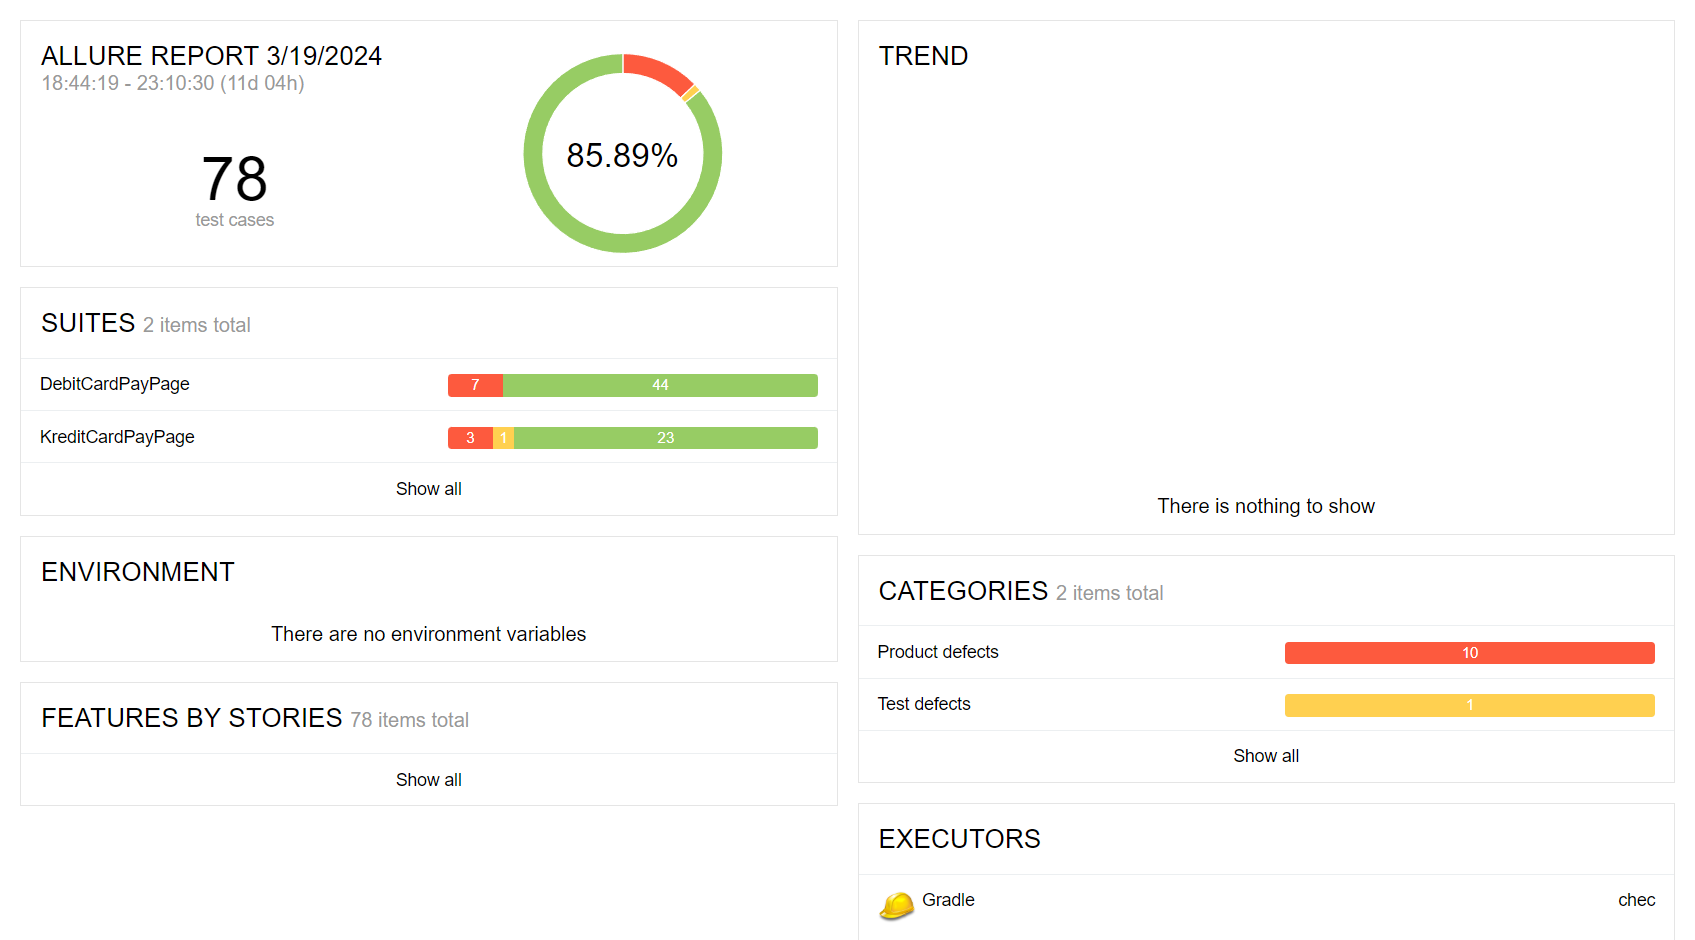
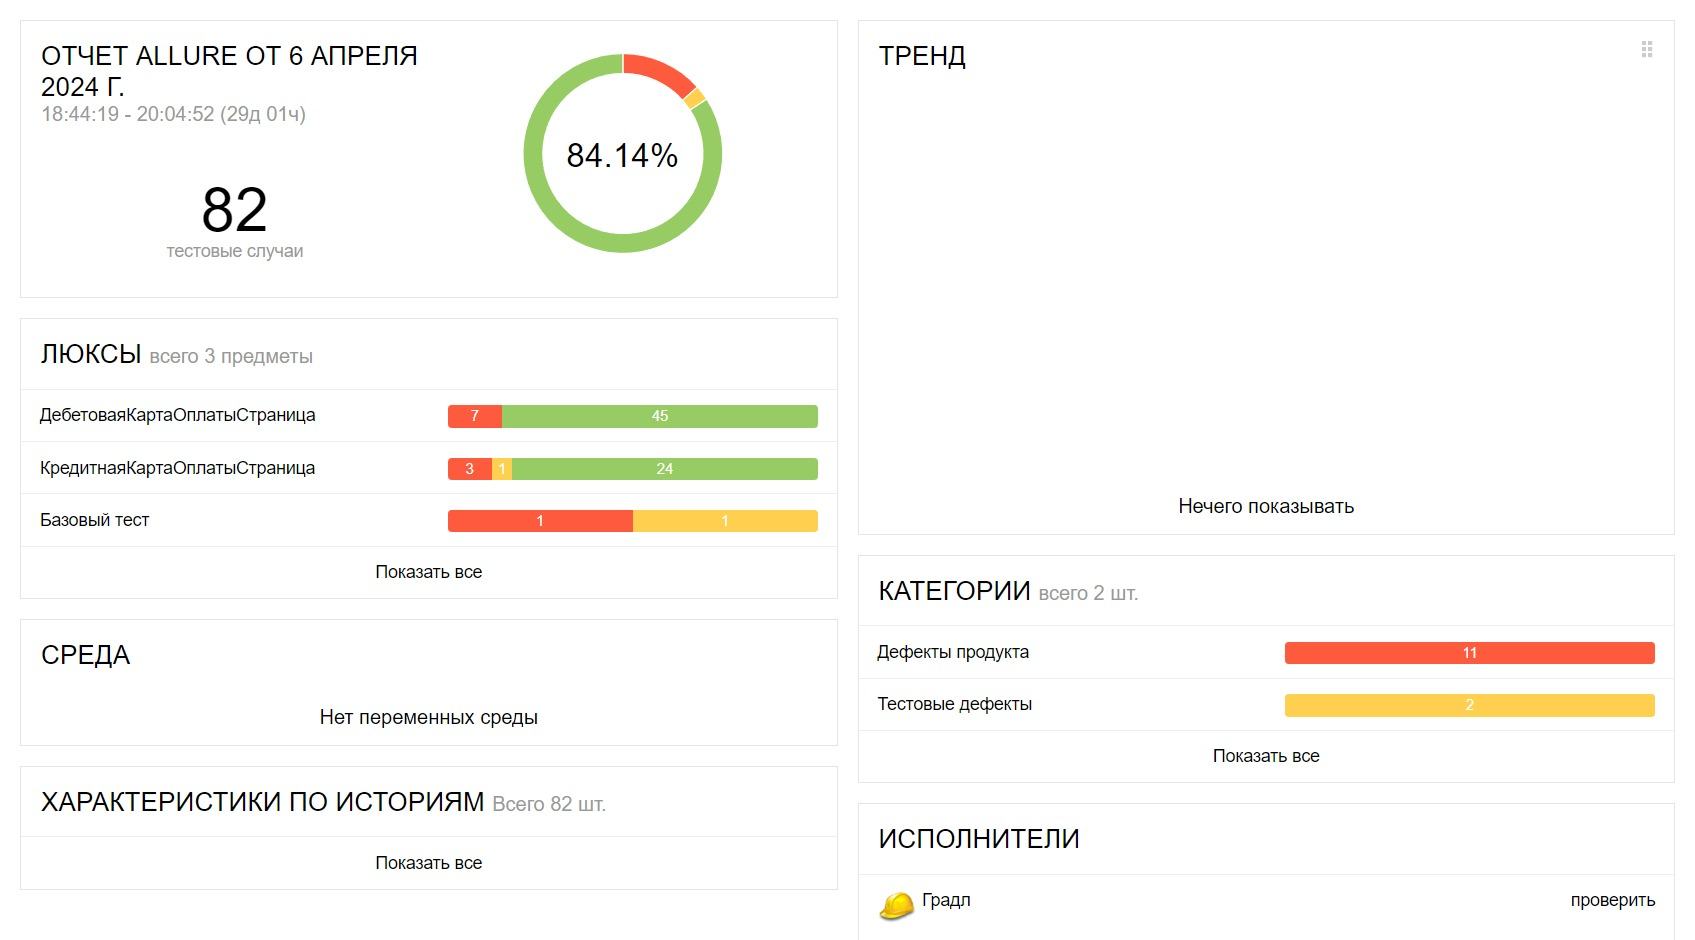
new bags

diff --git a/src/test/java/KreditCardPayPage.java b/src/test/java/KreditCardPayPage.java
@@ -1,7 +1,6 @@
 import com.codeborne.selenide.Condition;
 import com.codeborne.selenide.logevents.SelenideLogger;
 import io.qameta.allure.selenide.AllureSelenide;
-
 import org.junit.jupiter.api.AfterAll;
 import org.junit.jupiter.api.BeforeAll;
 import org.junit.jupiter.api.BeforeEach;
@@ -15,6 +14,7 @@ import static com.codeborne.selenide.Selenide.open;
 public class KreditCardPayPage {
     DataHelper.SelectInfo selInfo = DataHelper.getSelectInfo();
     DataHelper.PayInfo info = DataHelper.getPayInfo();
+
     @BeforeAll
     static void setUpAllure() {
         SelenideLogger.addListener("allure", new AllureSelenide());
@@ -101,6 +101,19 @@ public class KreditCardPayPage {
         $("#root > div > div.notification.notification_visible.notification_status_error.notification_has-closer.notification_stick-to_right.notification_theme_alfa-on-white > div.notification__content")
                 .shouldBe(Condition.visible, Duration.ofSeconds(100))
                 .shouldHave(Condition.exactText("Ошибка! Банк отказал в проведении операции."));
+    }
+
+    @Test
+    void wrongCardKreditBuyTest2() {
+        $(selInfo.getCard()).sendKeys("1111 1111 1111 1111");
+        $(selInfo.getMonth()).sendKeys(info.getMonth());
+        $(selInfo.getYear()).sendKeys(info.getYear());
+        $(selInfo.getOwner()).sendKeys(info.getOwner());
+        $(selInfo.getCode()).sendKeys(info.getCode());
+        $(selInfo.getButton()).click();
+        $(".notification__content")
+                .shouldBe(Condition.visible, Duration.ofSeconds(200))
+                .shouldHave(Condition.exactText("Операция одобрена Банком."));
     }
 
     @Test
@@ -268,7 +281,7 @@ public class KreditCardPayPage {
     @Test
     void toMuchLetterKreditBuy() {
 
-         $(selInfo.getCard()).sendKeys(info.getCard());
+        $(selInfo.getCard()).sendKeys(info.getCard());
         $(selInfo.getMonth()).sendKeys(info.getMonth());
         $(selInfo.getYear()).sendKeys(info.getYear());
         $(selInfo.getOwner()).sendKeys("Владддддддддддддддддддддддддддддддддддддддддддддддддддддддддддддддддддддддддддддддддддддддддддддддддддддддддддддддддддддддддддддддддддддддддддддддддддддддддддддддддддддддддддддддддддддддддддддддддддддддддддддддддддддддддддддддддддддддддддддддддддддддддддддддддддддддддддддддддддддддддддддддддддддддддддддддддддддддддддддддддддддддддддддддддддддддддддддддддддддддддддддддддддддддддддддддддддддддддддддддддддддддддддддддддддддддддддддддддддддддддддддддддддддд");

diff --git a/src/test/java/DebitCardPayPage.java b/src/test/java/DebitCardPayPage.java
@@ -14,6 +14,7 @@ import static com.codeborne.selenide.Selenide.open;
 public class DebitCardPayPage {
     DataHelper.SelectInfo selInfo = DataHelper.getSelectInfo();
     DataHelper.PayInfo info = DataHelper.getPayInfo();
+
     @BeforeAll
     static void setUpAllure() {
         SelenideLogger.addListener("allure", new AllureSelenide());
@@ -99,6 +100,19 @@ public class DebitCardPayPage {
         $("#root > div > div.notification.notification_visible.notification_status_error.notification_has-closer.notification_stick-to_right.notification_theme_alfa-on-white > div.notification__content")
                 .shouldBe(Condition.visible, Duration.ofSeconds(100))
                 .shouldHave(Condition.exactText("Ошибка! Банк отказал в проведении операции."));
+    }
+
+    @Test
+    void wrongCardDebitBuyTest2() {
+        $(selInfo.getCard()).sendKeys("1111 1111 1111 1111");
+        $(selInfo.getMonth()).sendKeys(info.getMonth());
+        $(selInfo.getYear()).sendKeys(info.getYear());
+        $(selInfo.getOwner()).sendKeys(info.getOwner());
+        $(selInfo.getCode()).sendKeys(info.getCode());
+        $(selInfo.getButton()).click();
+        $(".notification__content")
+                .shouldBe(Condition.visible, Duration.ofSeconds(200))
+                .shouldHave(Condition.exactText("Операция одобрена Банком."));
     }
 
     @Test
@@ -386,4 +400,5 @@ public class DebitCardPayPage {
         $(".notification__content")
                 .shouldBe(Condition.visible, Duration.ofSeconds(30))
                 .shouldHave(Condition.exactText("Операция одобрена Банком."));
-    }}
+    }
+}

diff --git a/src/test/java/BaseTest.java b/src/test/java/BaseTest.java
@@ -1,0 +1,50 @@
+import com.codeborne.selenide.logevents.SelenideLogger;
+import io.qameta.allure.selenide.AllureSelenide;
+import org.junit.jupiter.api.AfterAll;
+import org.junit.jupiter.api.BeforeAll;
+import org.junit.jupiter.api.Test;
+
+import java.sql.*;
+
+import static org.junit.jupiter.api.Assertions.assertEquals;
+
+public class BaseTest {
+
+    @BeforeAll
+    static void setUpAllure() {
+        SelenideLogger.addListener("allure", new AllureSelenide());
+
+
+    }
+
+    @AfterAll
+    static void tearDownAllure() {
+        SelenideLogger.removeListener("allure");
+    }
+
+    @Test
+    public void baseTest() {
+        String url = "jdbc:postgresql://185.119.57.164:5432/db";
+        String user = "postgres";
+        String password = "boring";
+        String actualText;
+        try (Connection connection = DriverManager.getConnection(url, user, password);
+             Statement statement = connection.createStatement()) {
+
+            ResultSet resultSet = statement.executeQuery("SELECT *\n" +
+                    "FROM order_entity\n" +
+                    "JOIN credit_request_entity  ON order_entity.credit_id  = credit_request_entity.bank_id ;");
+
+            if (resultSet.next()) {
+                String value = resultSet.getString("credit_id");
+                actualText = "Value in the cell";
+            } else {
+                actualText = "No value found in the cell";
+            }
+            assertEquals("Value in the cell", actualText);
+        } catch (SQLException e) {
+            e.printStackTrace();
+        }
+
+    }
+}

diff --git a/src/test/java/DataHelper.java b/src/test/java/DataHelper.java
@@ -1,8 +1,17 @@
 import lombok.Value;
+
 public class DataHelper {
     public static PayInfo getPayInfo() {
-        return new PayInfo("1111 2222 3333 4444", "11","24","Влад","999");
+        return new PayInfo("1111 2222 3333 4444", "11", "24", "Влад", "999");
     }
+
+    public static SelectInfo getSelectInfo() {
+        return new SelectInfo("[placeholder='0000 0000 0000 0000']", "[placeholder='08']"
+                , "[placeholder='22']",
+                "#root > div > form > fieldset > div:nth-child(3) > span > span:nth-child(1) > span > span > span.input__box > input",
+                "[placeholder='999']", "form button.button");
+    }
+
     @Value
     public static class PayInfo {
         private String card;
@@ -13,12 +22,7 @@ public class DataHelper {
 
 
     }
-    public static SelectInfo getSelectInfo() {
-        return new SelectInfo("[placeholder='0000 0000 0000 0000']", "[placeholder='08']"
-                ,"[placeholder='22']",
-                "#root > div > form > fieldset > div:nth-child(3) > span > span:nth-child(1) > span > span > span.input__box > input",
-                "[placeholder='999']","form button.button");
-    }
+
     @Value
     public static class SelectInfo {
         private String card;
